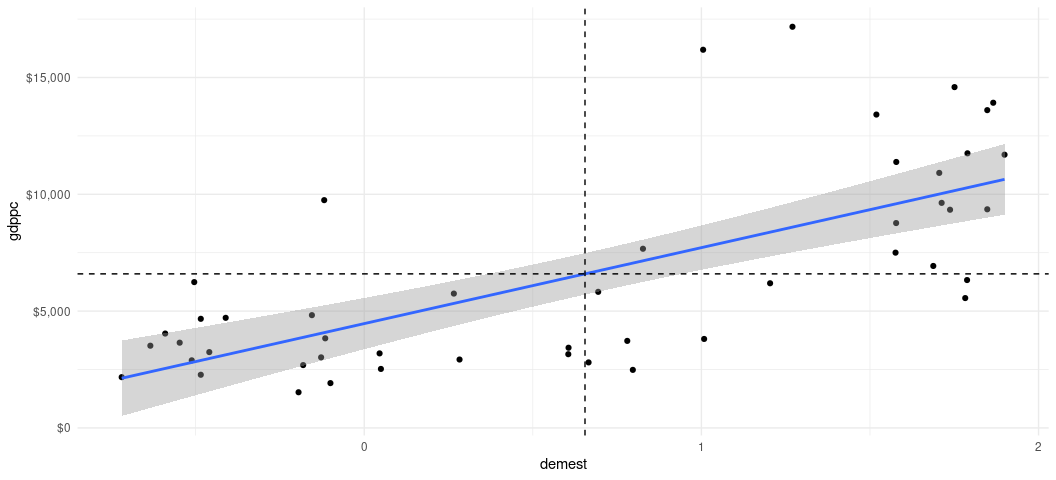
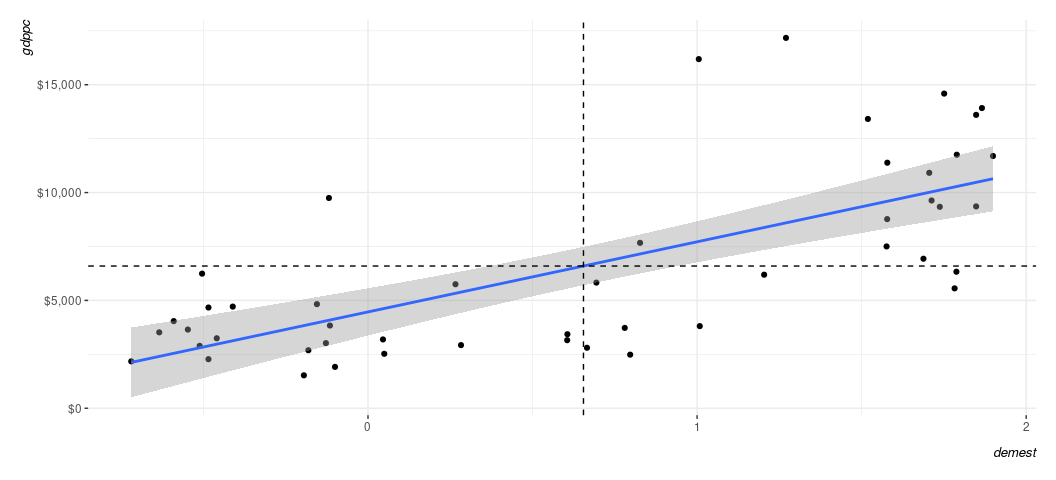
ddd

diff --git a/scripts/correlation-pearson-r.md b/scripts/correlation-pearson-r.md
@@ -53,6 +53,9 @@ library(stevemisc)
 #> The following object is masked from 'package:dplyr':
 #> 
 #>     tbl_df
+library(stevethemes) # Optional; gonna use it anyway
+
+theme_set(theme_steve(style = 'generic'))
 ```
 
 Please read this:
@@ -349,7 +352,6 @@ ggplot(Data, aes(cat, gdppc)) +
   geom_boxplot(fill="#619cff") +
   # put your thing down flip it and reverse it...
   coord_flip() +
-  theme_minimal() +
   # Be mindful of the coord_flip(), though...
   scale_y_continuous(labels = scales::dollar_format()) +
   labs(x = "", y="GDP per Capita Quartiles",
@@ -531,7 +533,6 @@ mean_gdppc <- mean(Data$gdppc)
 mean_demest <- mean(Data$demest)
 
 ggplot(Data, aes(demest, gdppc)) +
-  theme_minimal() +
   geom_point() +
   geom_smooth(method ='lm') +
   geom_vline(xintercept = mean_demest, linetype = 'dashed') +

diff --git a/scripts/chisq-t-test.md b/scripts/chisq-t-test.md
@@ -46,6 +46,9 @@ library(tidyverse)
 #> ✖ dplyr::lag()    masks stats::lag()
 #> ℹ Use the conflicted package (<http://conflicted.r-lib.org/>) to force all conflicts to become errors
 library(stevedata)
+library(stevethemes) # Optional; gonna use it anyway
+
+theme_set(theme_steve(style = 'generic'))
 ```
 
 Reminder: Please have read this:
@@ -325,7 +328,6 @@ corresponding with our test statistic.
 ``` r
 ggplot(chisqsim, aes(x)) +
   geom_density() +
-  theme_minimal() +
   geom_vline(xintercept = 17.895, linetype = 'dashed')
 ```
 
